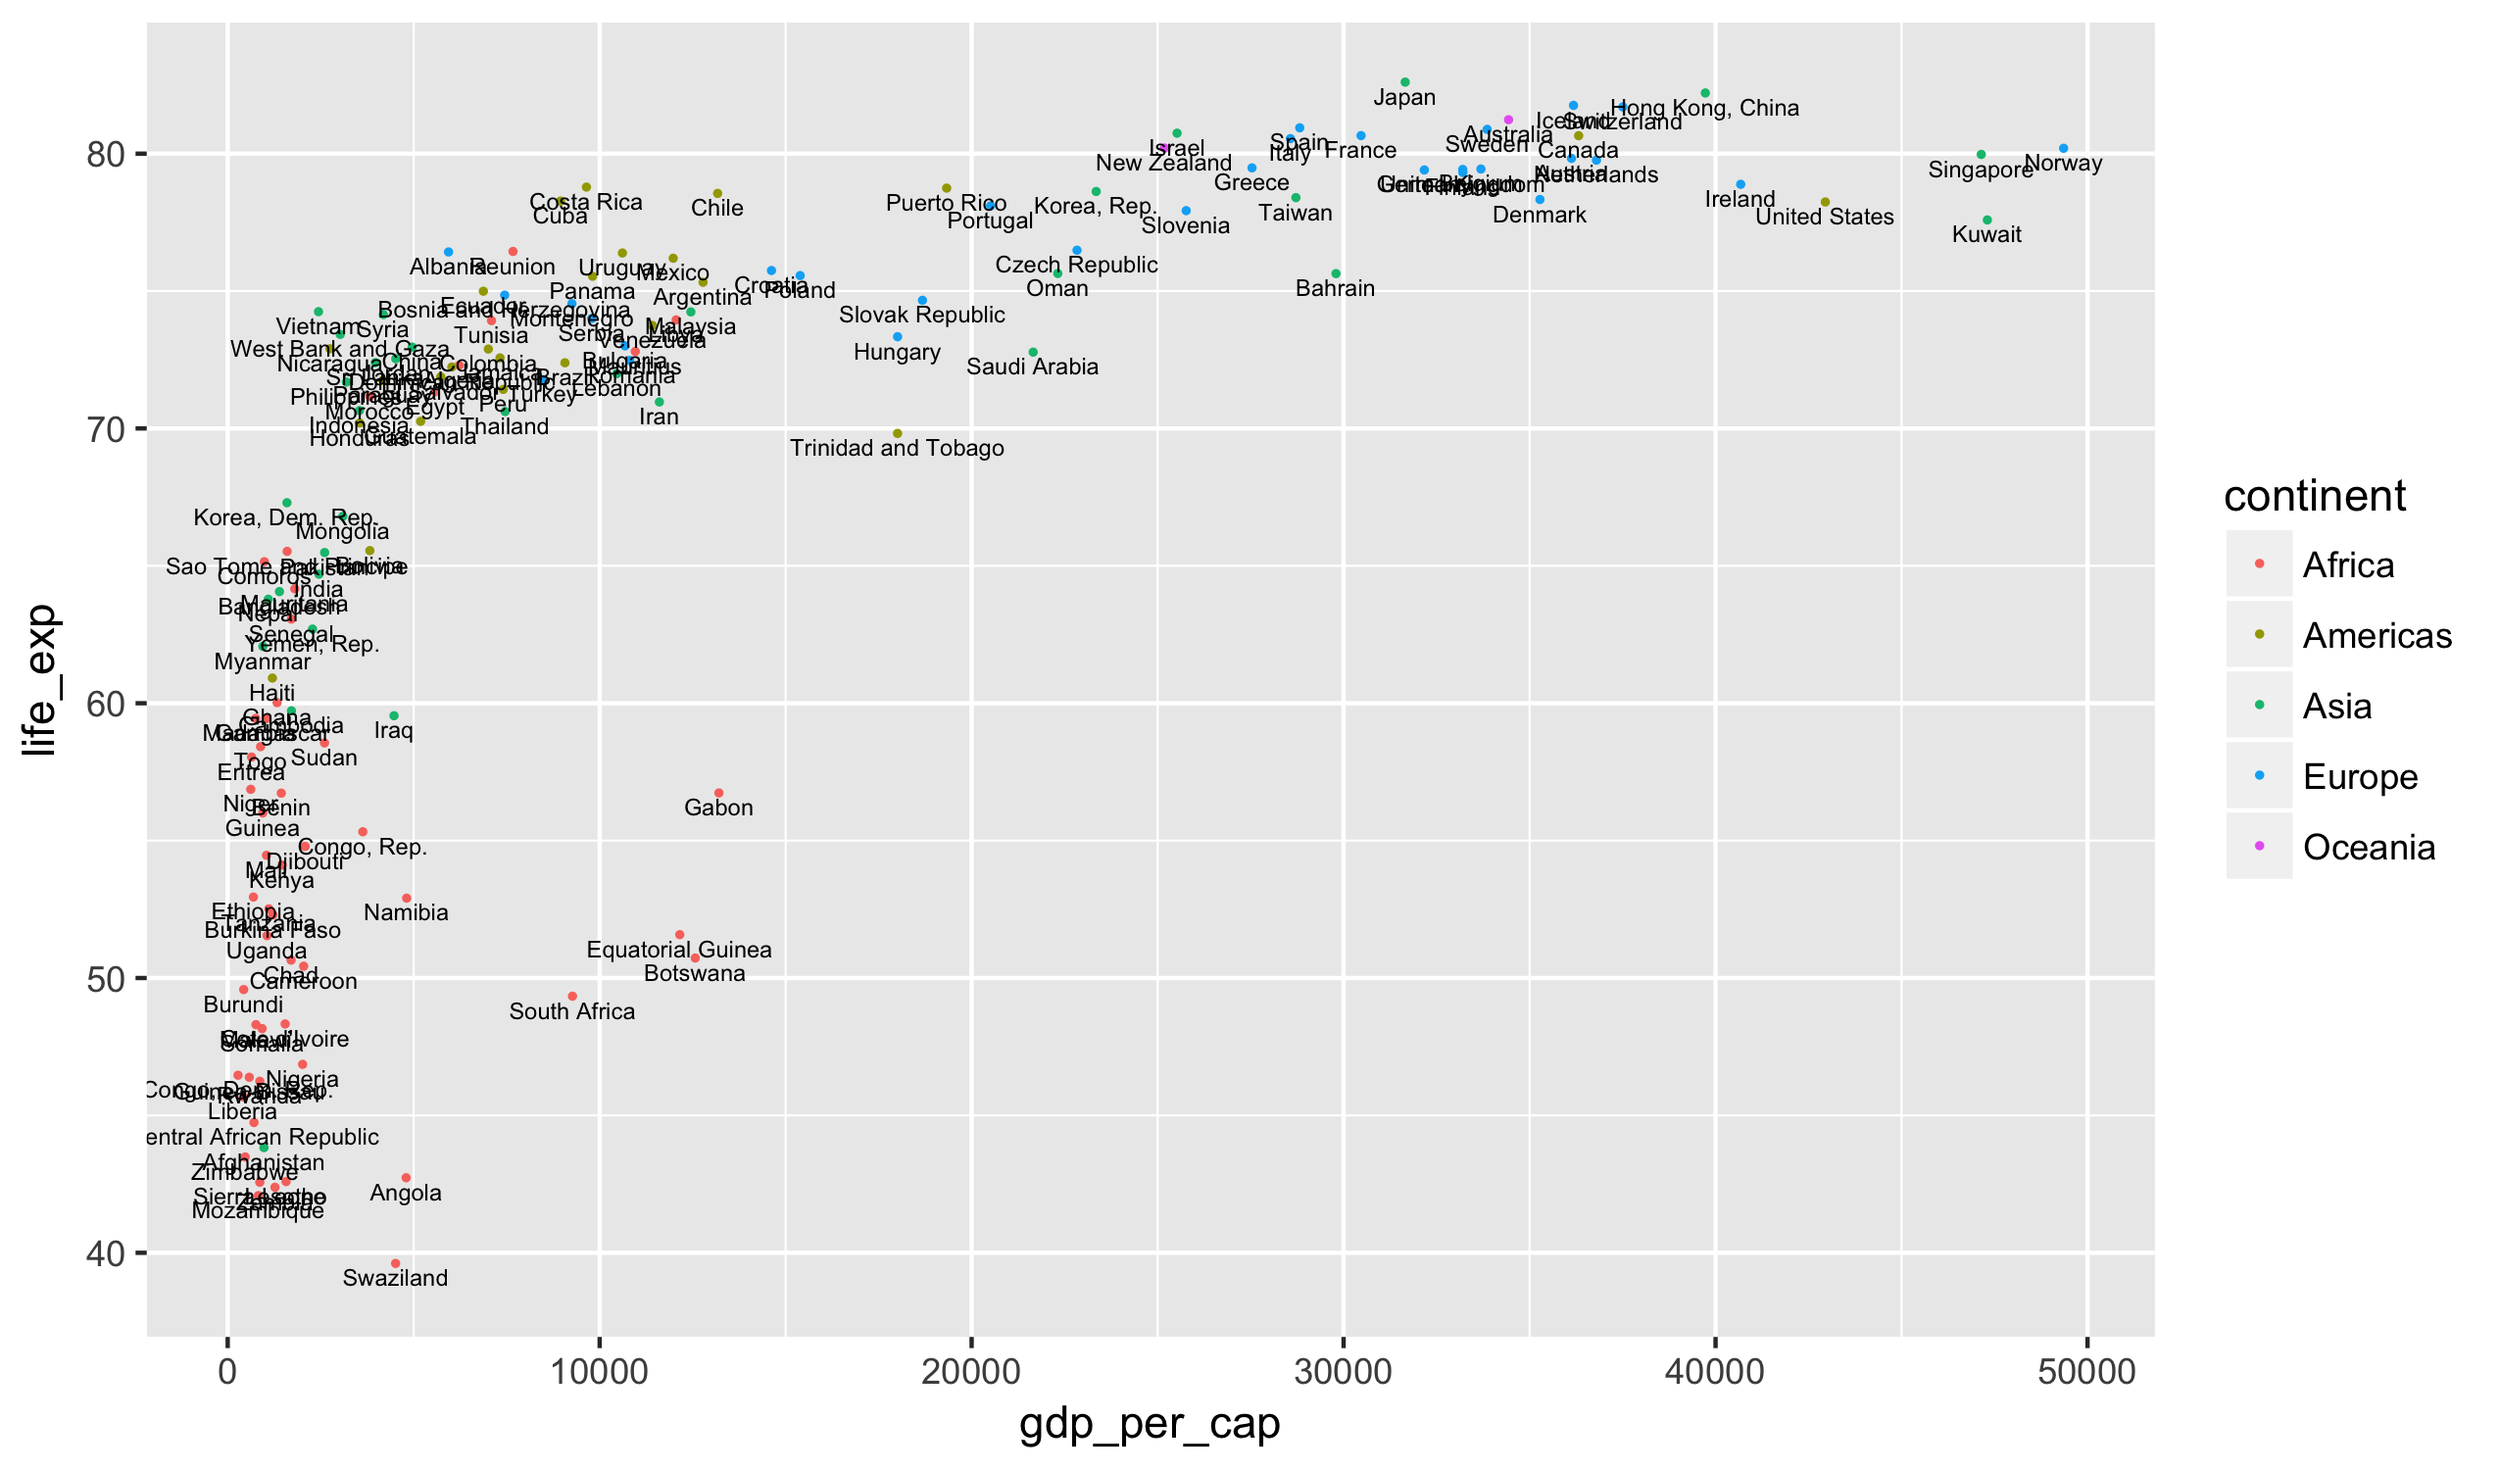
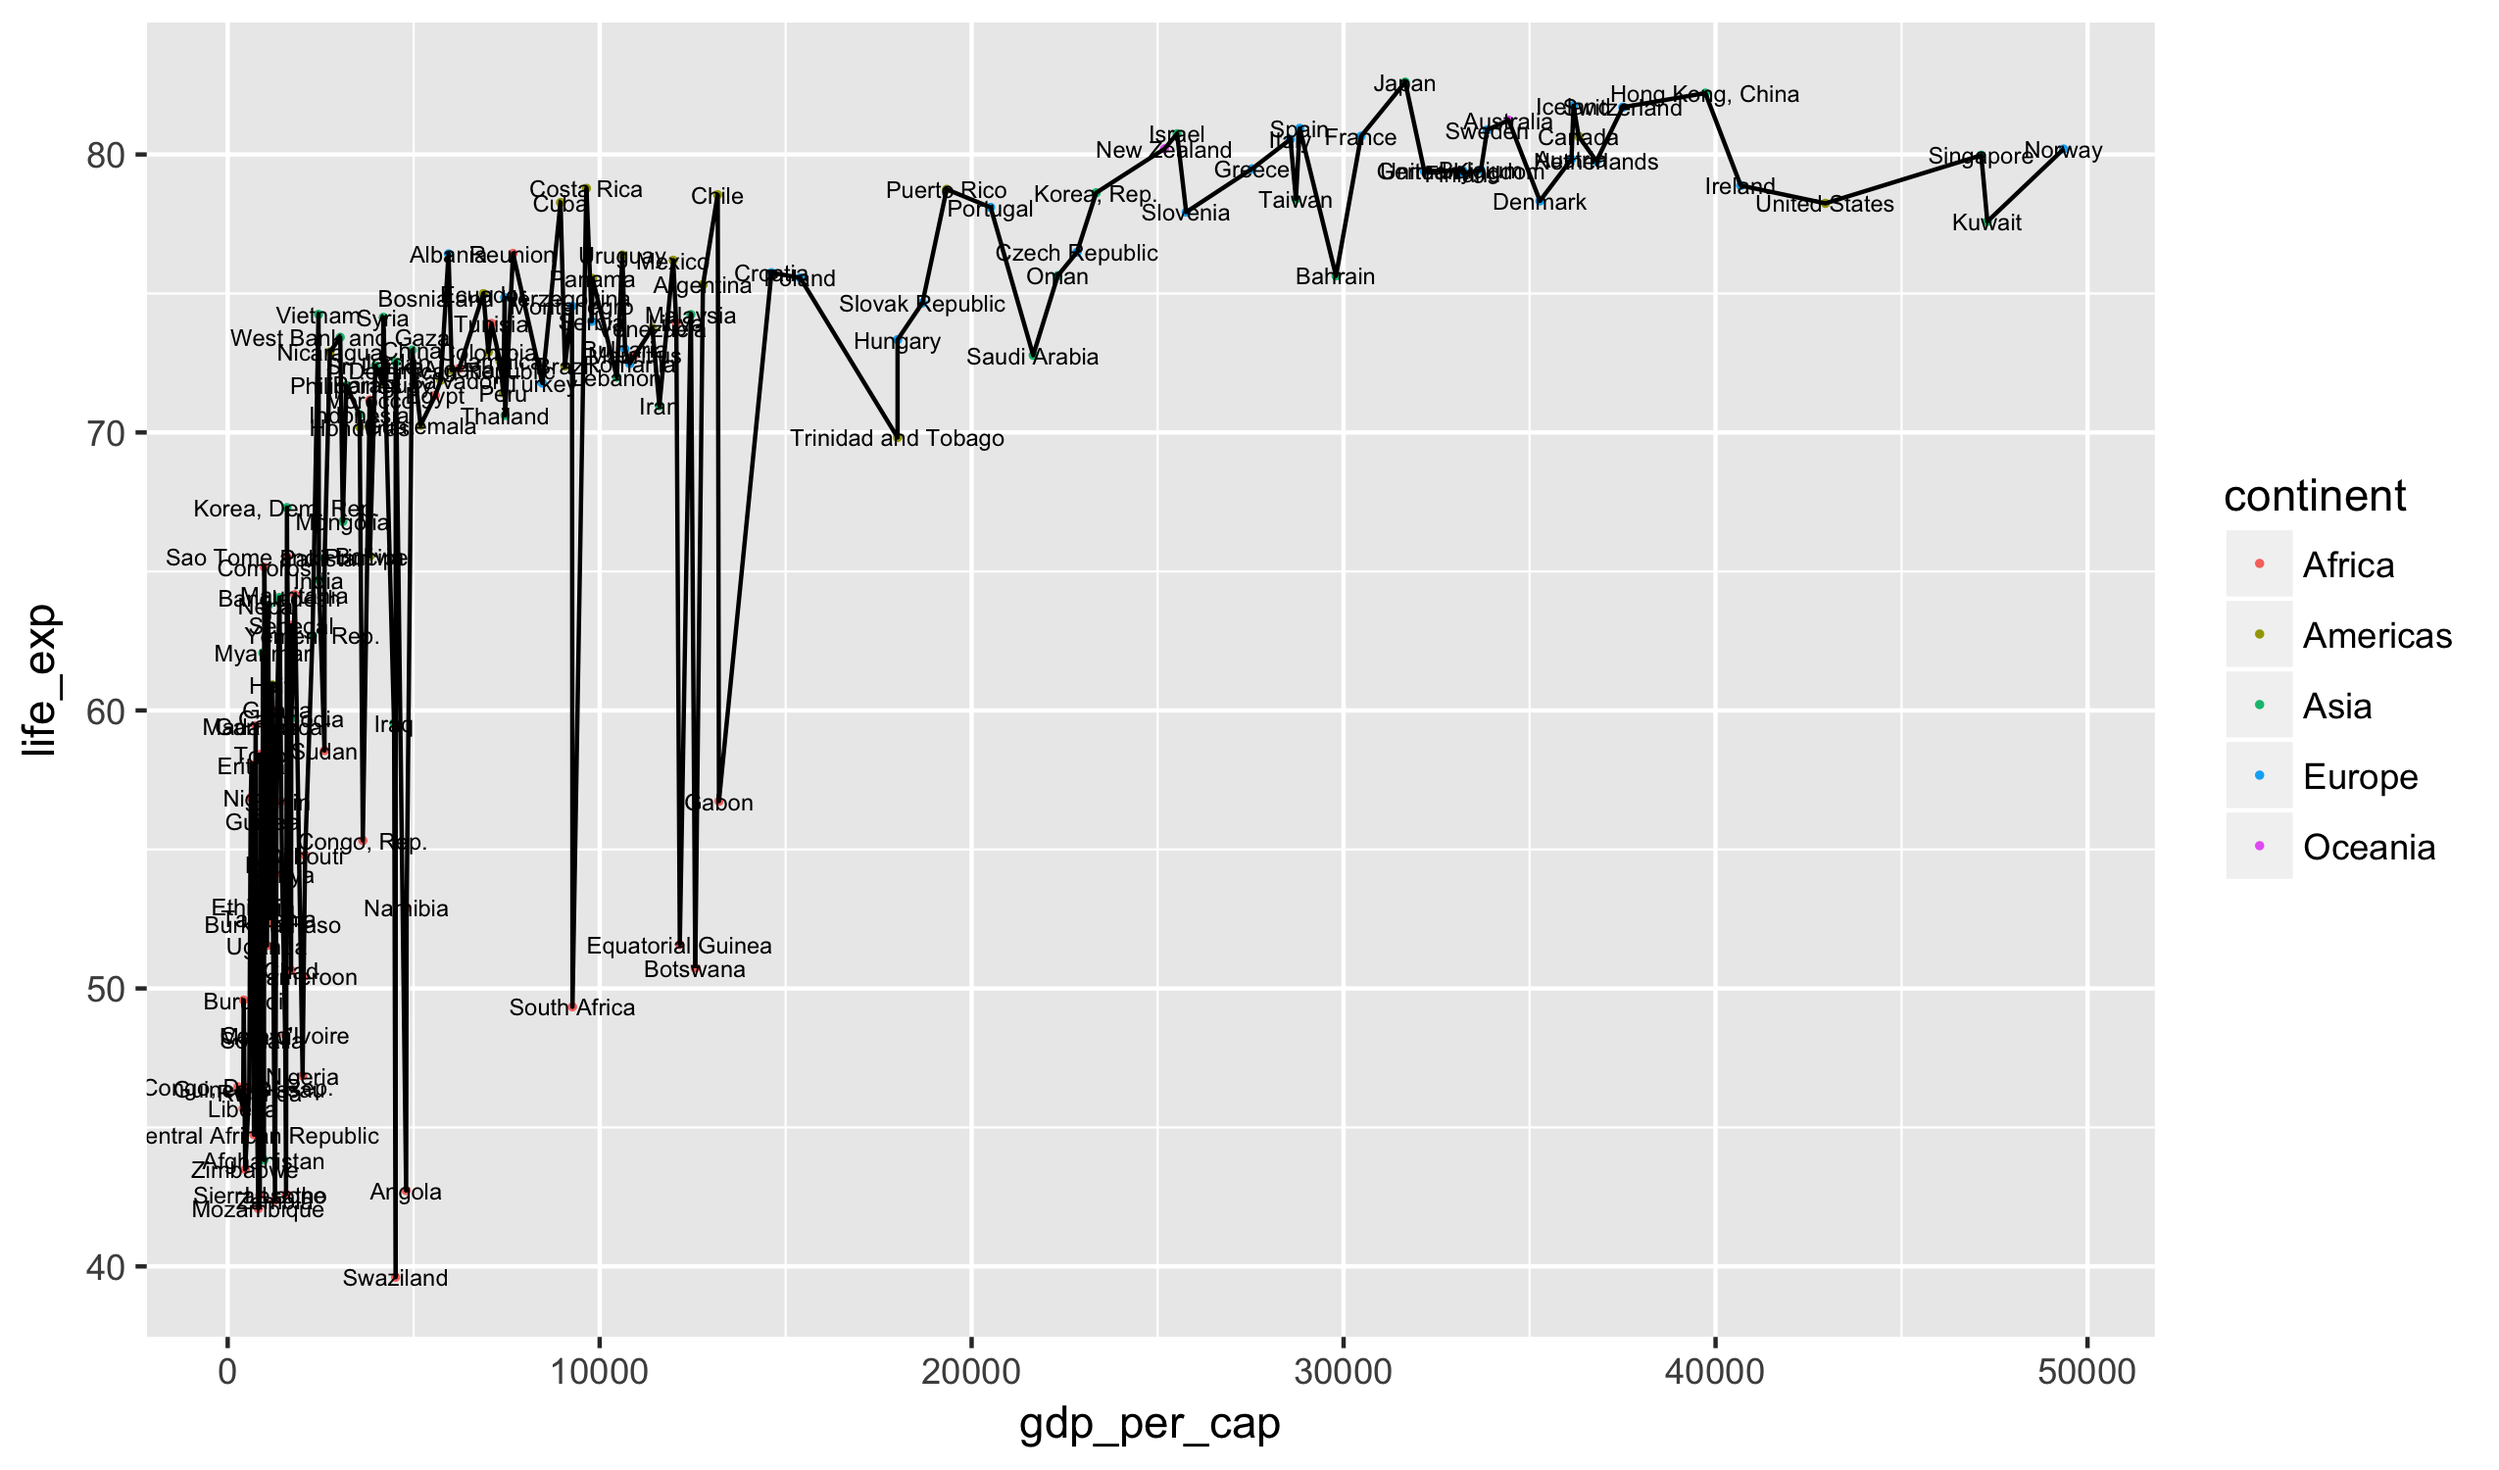
update notes

Changed region(s): [[0.031, 0.0613, 0.8675, 0.8587], [0.6816, 0.092, 0.8365, 0.184], [0.031, 0.828, 0.062, 0.8893]]

diff --git a/_notes/class08-grammar-of-graphics.md b/_notes/class08-grammar-of-graphics.md
@@ -21,7 +21,7 @@ To build a statistical graphic, we will be building different layers that fit
 together to produce plots. Each layer requires three elements:
 
 - a geometry describing what type of layer is being added; for example, this
-might be a points, lines, or text
+might be a point, line, or text geometry
 - a dataset from which to build the layer
 - a mapping from variables in the dataset into elements called aesthetics that
 control the way the plot looks
@@ -82,10 +82,10 @@ eight).
 
 <img src="../assets/class08-grammar-of-graphics/unnamed-chunk-3-1.png" title="plot of chunk unnamed-chunk-3" alt="plot of chunk unnamed-chunk-3" width="100%" />
 
-Here, two of our three elements should be clear: dataset is `gapminder_2007`
-and the plot uses the points geometry (`geom_point`, which we have already
-seen). How do the aesthetic elements function? There are four visible
-aesthetics here, each matched to a particular variable in the dataset:
+Here, two of our three elements should be clear: the dataset is
+`gapminder_2007` and the plot uses the point geometry (`geom_point`, which we
+have already seen). How do the aesthetic elements function? There are four
+visible aesthetics here, each matched to a particular variable in the dataset:
 
 1. the variable `gdp_per_cap` is mapped to the `x`-axis
 2. the variable `life_exp` is mapped to the `y`-axis
@@ -101,8 +101,8 @@ code written out in its entirety.
 
 
 {% highlight r %}
-ggplot(data=gapminder_2007, aes(x=gdp_per_cap, y=life_exp)) +
-  geom_point(aes(color=continent, size=pop))
+ggplot(data = gapminder_2007, aes(x = gdp_per_cap, y = life_exp)) +
+  geom_point(aes(color = continent, size = pop))
 {% endhighlight %}
 
 Equivalently, we can leave off the names in the first row. R knows by default
@@ -112,7 +112,7 @@ the third is the y-variable.
 
 {% highlight r %}
 ggplot(gapminder_2007, aes(gdp_per_cap, life_exp)) +
-  geom_point(aes(color=continent, size=pop))
+  geom_point(aes(color = continent, size = pop))
 {% endhighlight %}
 
 Let's dive a bit deeper into what this plot is doing. The first line sets up
@@ -184,22 +184,43 @@ ggplot(gapminder_2007, aes(gdp_per_cap, life_exp)) +
 
 <img src="../assets/class08-grammar-of-graphics/unnamed-chunk-9-1.png" title="plot of chunk unnamed-chunk-9" alt="plot of chunk unnamed-chunk-9" width="100%" />
 
-The top row of the ggplot command gives defaults for the y-axis aesthetic. It
-is possible to override this in a particular layer. Why might this be useful?
-It might be a good idea to move the country labels slightly below their
-respective dots:
+Although it makes little sense here, we could also add a line plot to the
+graphic:
 
 
 {% highlight r %}
 ggplot(gapminder_2007, aes(gdp_per_cap, life_exp)) +
   geom_point(aes(color = continent), size = 0.4) +
-  geom_text(aes(y = life_exp - 0.5, label = country), size = 2)
+  geom_text(aes(label = country), size = 2) +
+  geom_line()
 {% endhighlight %}
 
 <img src="../assets/class08-grammar-of-graphics/unnamed-chunk-10-1.png" title="plot of chunk unnamed-chunk-10" alt="plot of chunk unnamed-chunk-10" width="100%" />
 
-Notice that we can modify the variable in-line, such as subtracting a fixed
-value from a variable, within the **ggplot2** syntax.
+As we go through this material today, take particular note of the format for
+the next quiz.
+
+### Prototype and References
+
+Some students, depending on their learning style, find it easiest to learn
+from a prototype showing exactly how `ggplot2` commands are structured. In
+the code below, anything in square brackets and captialised should be changed;
+other elements should generally be kept as-is:
+
+
+{% highlight r %}
+ggplot([DATA NAME], aes([X VARIABLE NAME], [Y VARIABLE NAME])) +
+  geom_[GEOM NAME](aes([VARIABLE AESTHETICS]), [FIXED AESTHETICS])
+{% endhighlight %}
+If you would like more references, here is a cheat-sheet and online notes that
+extend what we have done today:
+
+- [RMarkdown Cheatsheet](https://www.rstudio.com/wp-content/uploads/2015/02/rmarkdown-cheatsheet.pdf)
+- [R4DS]()
+
+These cover much more than we have shown today, and you are only responsible
+for the notes here. However, you may find the exercises and examples useful
+if this material is new to you.
 
 ### Practice
 

diff --git a/_notes/quiz-d.md b/_notes/quiz-d.md
@@ -9,11 +9,10 @@ This is not an easy task, as I will pick a plot with a lot of elements,
 which may include:
 
 - a `geom_point` layer
-- a `geom_text` layer (note: you'll have to set the label aesthetic)
+- a `geom_text` layer (note: you will have to set the `label` aesthetic)
 - changing the color of the points to a fixed value
 - changing the color of the points to a value defined by another variable
 - changing the size of the points to scale with another variable
-- moving the text labels up or down by a fixed value to not overlap the points
 
 To get a passing grade, all but one line of the code should be perfect and the
 remaining line should require only a minor modification
